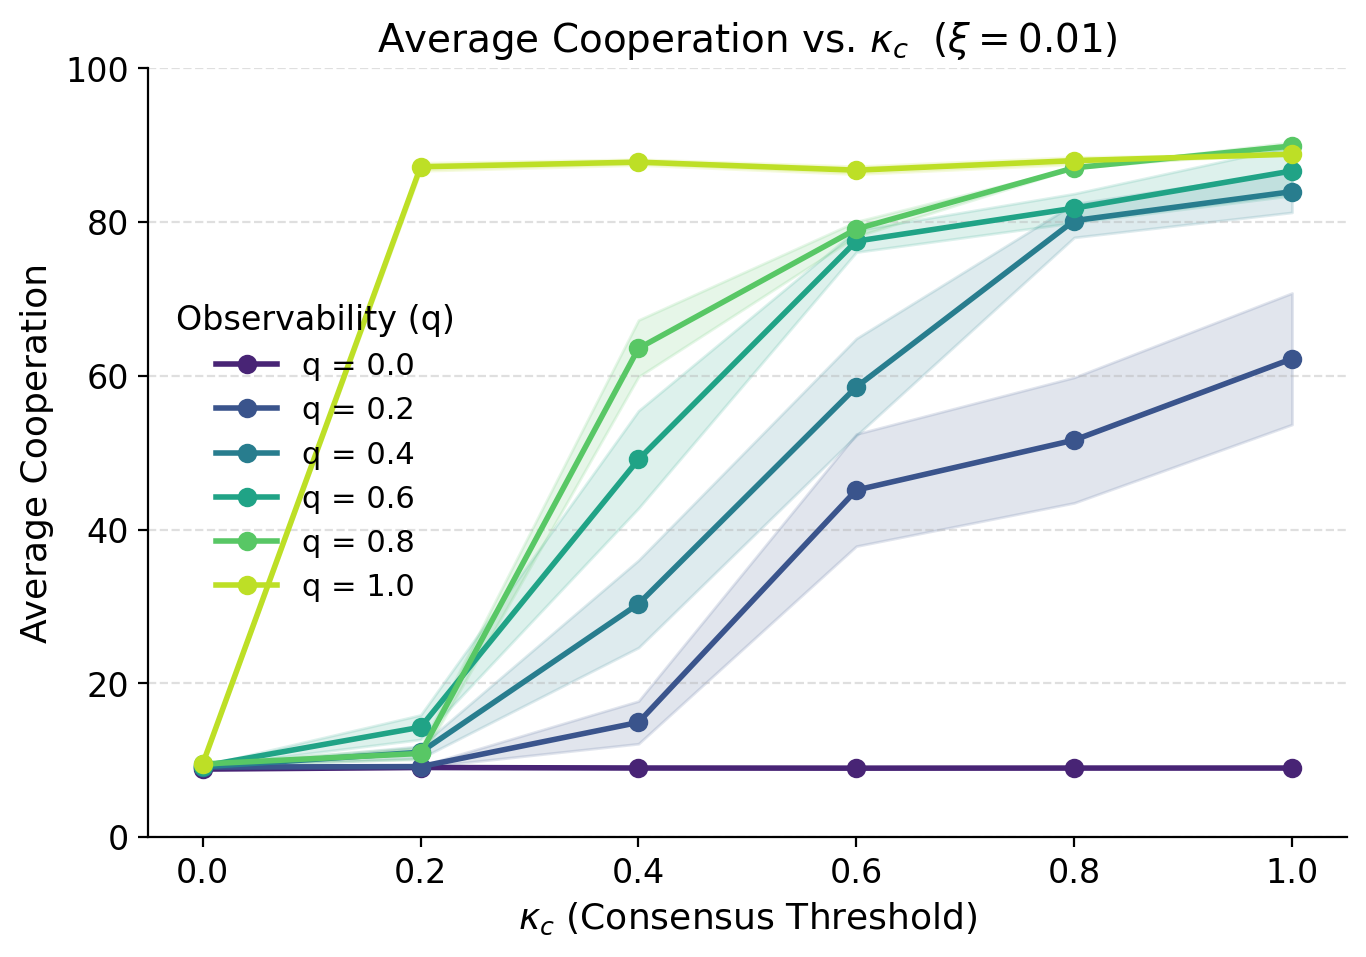
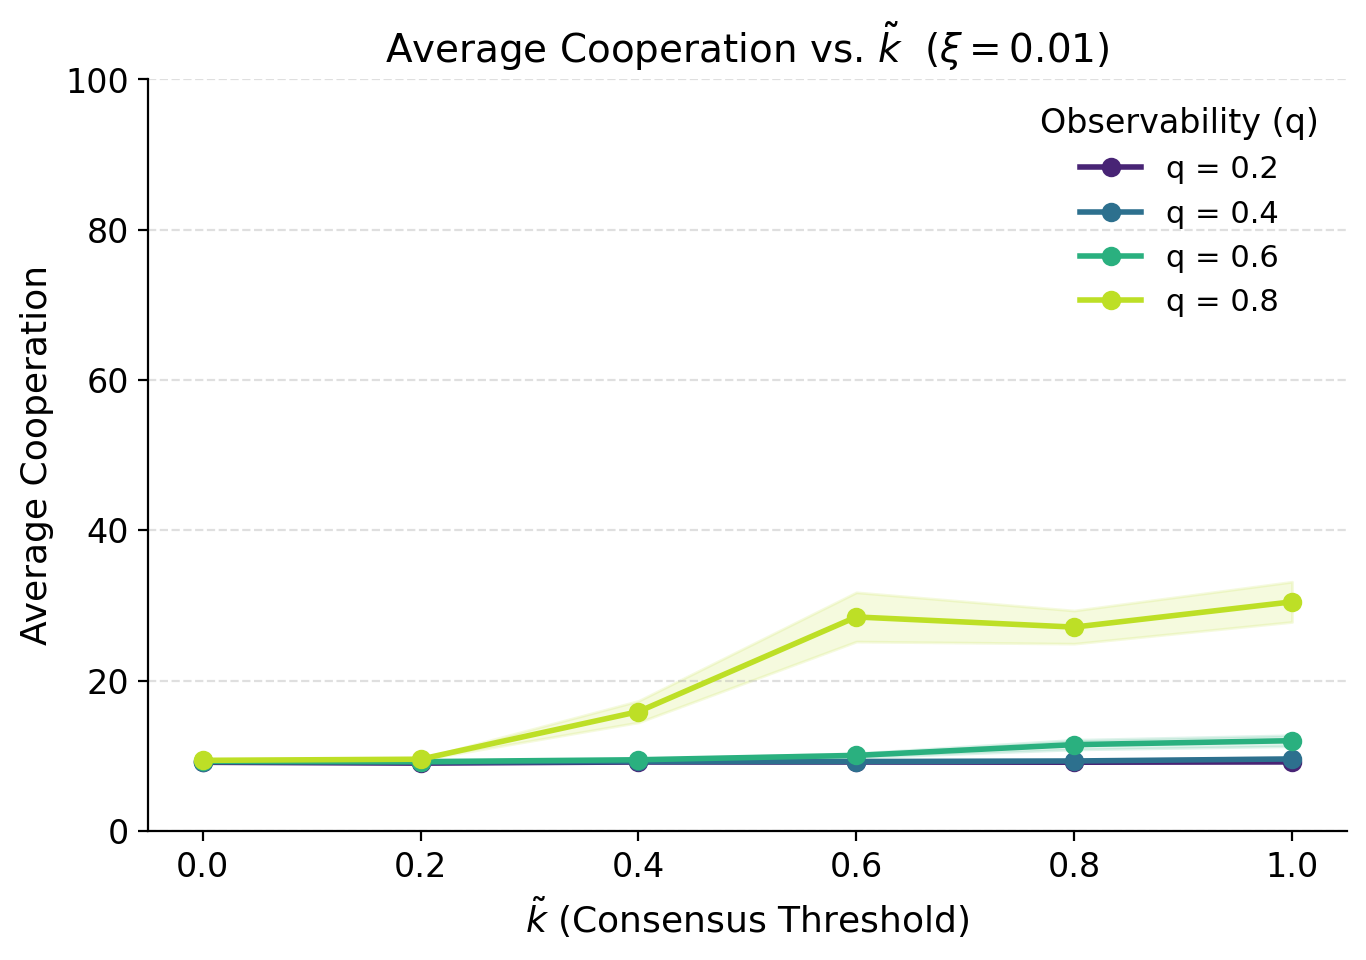
˜κ correct in plots. New fixed inputs for emotion instead of action fallback

diff --git a/plotting/plot_consensus_heatmap.py b/plotting/plot_consensus_heatmap.py
@@ -26,7 +26,7 @@ chart = (
     alt.Chart(heatmap_df)
     .mark_rect()
     .encode(
-        x=alt.X("consensus_thresh:O", title="κ_c (Consensus Threshold)"),
+        x=alt.X("consensus_thresh:O", title="k̃ (Consensus Threshold)"),
         y=alt.Y("q:O", title="q (Observability)", sort="descending"),
         color=alt.Color(
             "average_cooperation:Q",
@@ -35,12 +35,12 @@ chart = (
             legend=None,
         ),
         tooltip=[
-            alt.Tooltip("consensus_thresh:O", title="κ_c"),
+            alt.Tooltip("consensus_thresh:O", title="k̃"),
             alt.Tooltip("q:O", title="q"),
             alt.Tooltip("average_cooperation:Q", title="Avg Cooperation", format=".3f"),
         ],
     )
-    .properties(width=350, height=350, title="Average Cooperation by κ_c and q")
+    .properties(width=350, height=350, title="Average Cooperation by k̃ and q")
 )
 
 # Add text labels inside each cell

diff --git a/plotting/plot_consensus_heatmap_xi05.py b/plotting/plot_consensus_heatmap_xi05.py
@@ -37,7 +37,7 @@ chart = (
     alt.Chart(heatmap_df)
     .mark_rect()
     .encode(
-        x=alt.X("consensus_thresh:O", title="κ_c (Consensus Threshold)"),
+        x=alt.X("consensus_thresh:O", title="k̃ (Consensus Threshold)"),
         y=alt.Y("q:O", title="q (Observability)", sort="descending"),
         color=alt.Color(
             "average_cooperation:Q",
@@ -46,12 +46,12 @@ chart = (
             legend=None,
         ),
         tooltip=[
-            alt.Tooltip("consensus_thresh:O", title="κ_c"),
+            alt.Tooltip("consensus_thresh:O", title="k̃"),
             alt.Tooltip("q:O", title="q"),
             alt.Tooltip("average_cooperation:Q", title="Avg Cooperation", format=".3f"),
         ],
     )
-    .properties(width=350, height=350, title="Average Cooperation by κ_c and q (ξ=0.05)")
+    .properties(width=350, height=350, title="Average Cooperation by k̃ and q (ξ=0.05)")
 )
 
 # Add text labels inside each cell

diff --git a/plotting/plot_consensus_lines.py b/plotting/plot_consensus_lines.py
@@ -14,7 +14,7 @@ BASE_NORM = "sj"
 if BASE_NORM != "sj":
     csv_path = os.path.join(_SNARE_ROOT, "outputs", f"{BASE_NORM}_sweep.csv")
 elif BASE_NORM == "sj":
-    csv_path = os.path.join(_SNARE_ROOT, "outputs", "random_initial_condition.csv")
+    csv_path = os.path.join(_SNARE_ROOT, "outputs", "xi_robustness.csv")
 
 # The CSV is a mix of an old 30-column schema and the current 32-column schema
 # (aux_functions now exports 8 combined strategy+EP labels instead of 4+2 separate ones).
@@ -83,9 +83,9 @@ for xi in xi_vals:
                         q_data['mean'] + q_data['sem'],
                         alpha=0.15, color=color)
 
-    ax.set_xlabel(r'$\kappa_c$ (Consensus Threshold)', fontsize=13)
+    ax.set_xlabel(r'$\tilde{k}$ (Consensus Threshold)', fontsize=13)
     ax.set_ylabel('Average Cooperation', fontsize=13)
-    ax.set_title(rf'Average Cooperation vs. $\kappa_c$  ($\xi = {xi}$)', fontsize=14)
+    ax.set_title(rf'Average Cooperation vs. $\tilde{{k}}$  ($\xi = {xi}$)', fontsize=14)
     ax.set_xticks(Q_VALS)
     ax.set_ylim(0, 100)
     ax.legend(title='Observability (q)', frameon=False, fontsize=11)

diff --git a/plotting/plot_consensus_contour.py b/plotting/plot_consensus_contour.py
@@ -37,9 +37,9 @@ plt.clabel(contour_lines, inline=True, fontsize=8, fmt="%.0f")
 cbar = plt.colorbar(contour_filled, ticks=np.linspace(0, 100, 11))
 cbar.set_label("Avg Cooperation")
 
-plt.xlabel("κ_c (Consensus Threshold)")
+plt.xlabel(r"$\tilde{k}$ (Consensus Threshold)")
 plt.ylabel("q (Observability)")
-plt.title("Average Cooperation by κ_c and q")
+plt.title(r"Average Cooperation by $\tilde{k}$ and q")
 
 suffix = "action" if "action" in csv_path else "emotion"
 contour_path = f"outputs/consensus_contour_{suffix}.png"

diff --git a/plotting/plot_robustness_lines.py b/plotting/plot_robustness_lines.py
@@ -210,7 +210,7 @@ def plot_sweep(cfg: dict) -> None:
 
     # Annotate fixed params from YAML in a small text box
     fixed_info = (
-        r"Fixed: $q=0.8$, $\kappa_c=0.8$, $\xi=0.01$, "
+        r"Fixed: $q=0.8$, $\tilde{k}=0.8$, $\xi=0.01$, "
         r"$\alpha=0$, $\mu/Z=1$"
     )
     ax.text(